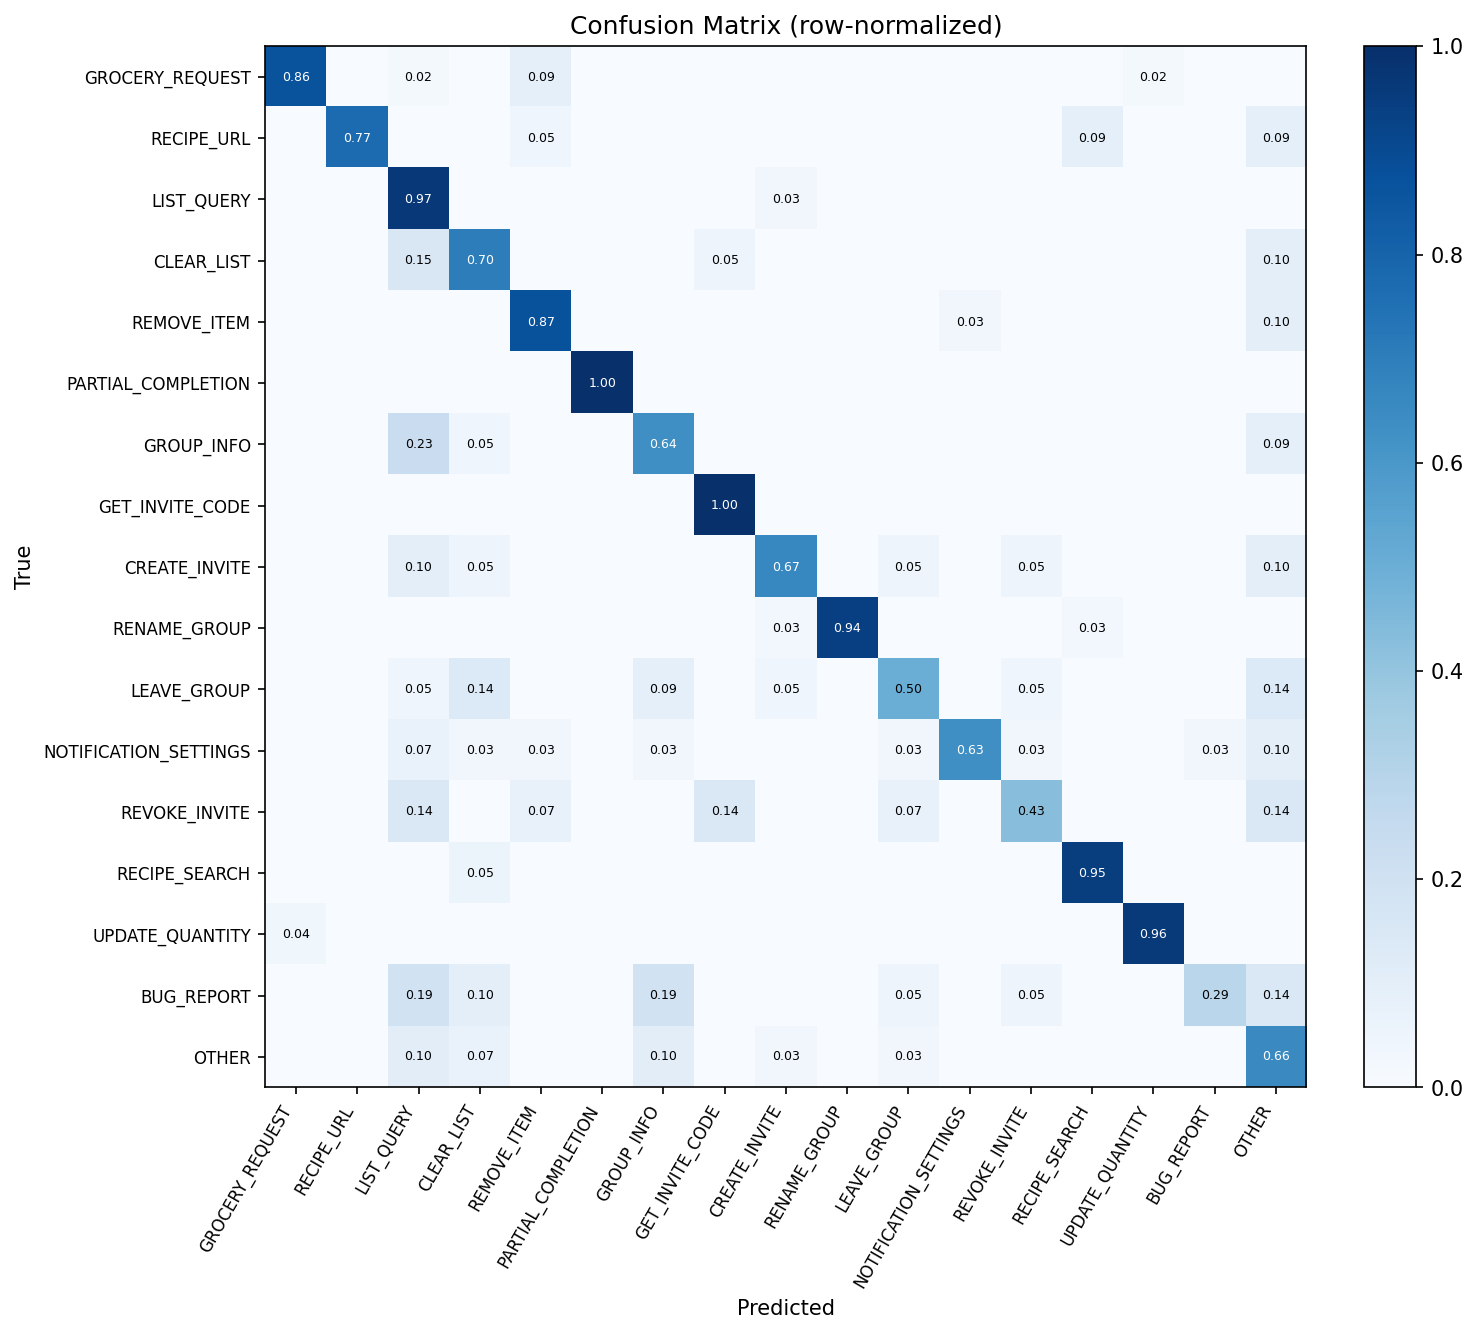
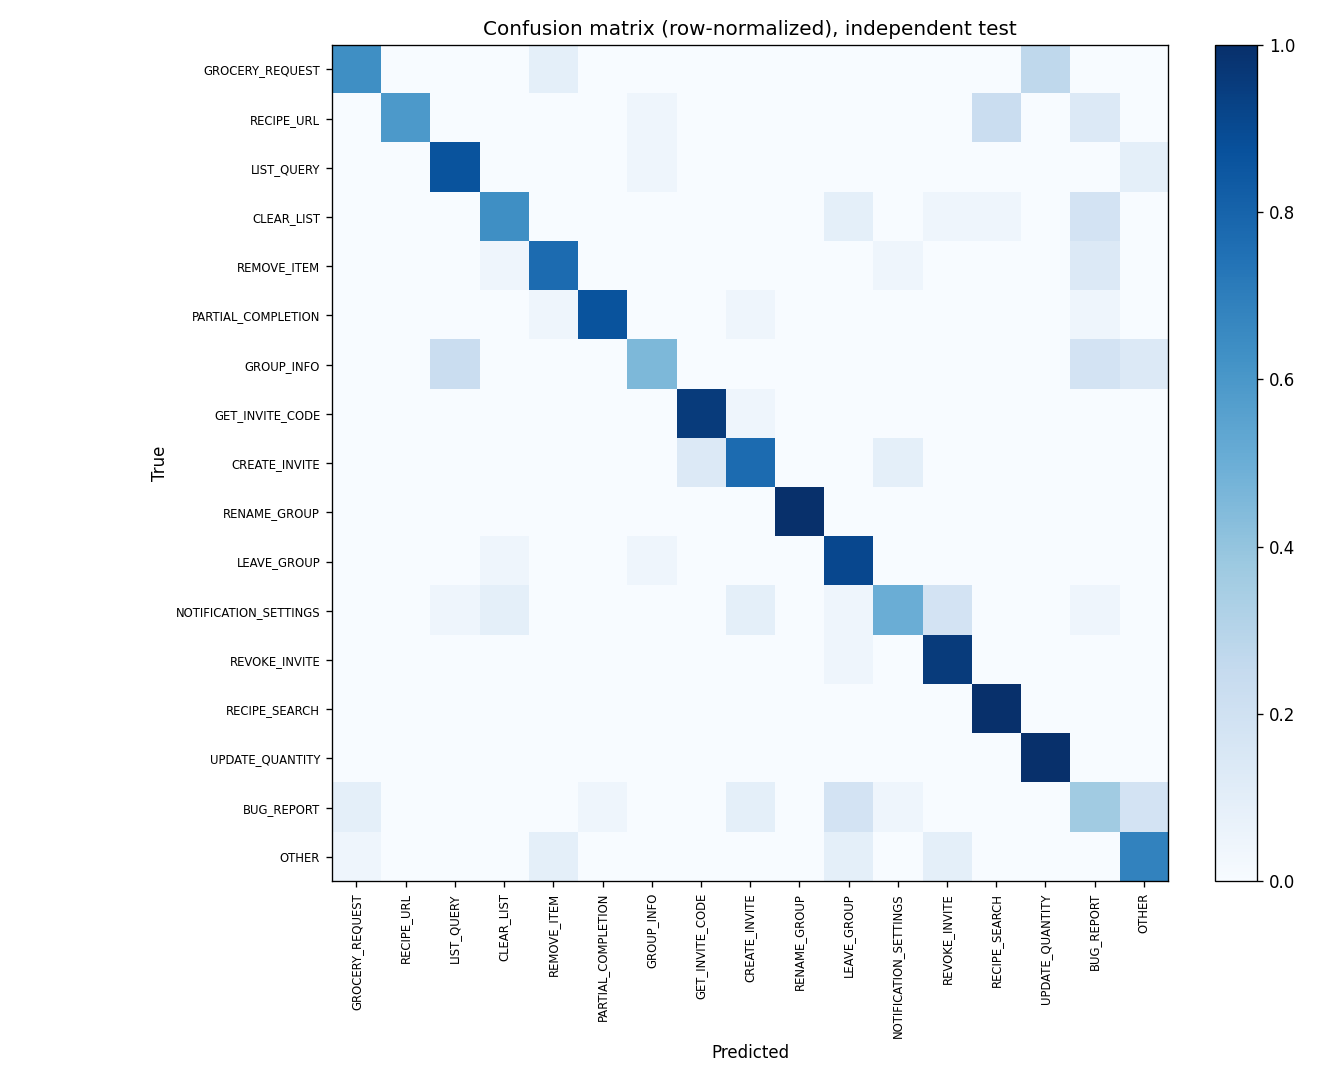
Improve the model: cover 'buy' requests and bump accuracy to 76%
After testing the first version I found that 'buy X' phrasings (like תקנה חלב)
were misclassified, traced it to a gap in the training examples, added
hand-authored examples for the missing phrasings, and retrained. Accuracy on the
held-out test set goes from 74% to 76%, and the buy requests now classify
correctly. Refresh the evaluation report, confusion matrix, and data sample.

diff --git a/EVALUATION.md b/EVALUATION.md
@@ -1,68 +1,60 @@
 # Evaluation Report: AlephBERT Hebrew Intent Classifier
 
-_Generated: 2026-05-25 03:59 UTC_
+## Summary (single training run, seed 42)
 
-## Headline numbers (3-run variance, seeds 42, 43, 44)
-
-- Accuracy: 0.7424 ± 0.0031
-- Weighted F1: 0.7357 ± 0.0039
-- Macro F1: 0.7357 ± 0.0039
-- Test samples: 374 (22 per intent), all paraphrases of seeds held out from training
+- Accuracy: 0.7620
+- Macro F1: 0.7559
+- Weighted F1: 0.7559
+- Test samples: 374 (22 per intent), held out at the seed level from training
 
 ## Baselines comparison
 
-Every row is measured on the same 374-message test set. The column that matters is
-cost: a zero-shot LLM charges per message, the fine-tune does not.
+Every row is measured on the same 374-message test set. The column that
+matters is cost: a zero-shot LLM charges per message, the fine-tune does not.
 
-| Approach | Accuracy | Weighted F1 | Macro F1 | Cost per 1,000 messages |
-|----------|---------:|------------:|---------:|-------------------------|
-| Random | 0.0668 | 0.0637 | 0.0637 | $0 |
-| Majority class | 0.0588 | 0.0065 | 0.0065 | $0 |
-| Keyword regex (hand-written) | 0.2487 | 0.2834 | 0.2834 | $0 |
-| GPT-4o-mini zero-shot | 0.5722 | 0.5916 | 0.5916 | about $0.05 (gpt-4o-mini, Jan 2026 pricing, ~250-token prompt) |
-| AlephBERT fine-tune (this model) | 0.7424 ± 0.0031 | 0.7357 ± 0.0039 | 0.7357 ± 0.0039 | $0 |
+| Approach | Accuracy | Cost per 1,000 messages |
+|----------|---------:|-------------------------|
+| Random | 0.0668 | $0 |
+| Majority class | 0.0588 | $0 |
+| Keyword regex (hand-written) | 0.2487 | $0 |
+| GPT-4o-mini zero-shot | 0.5722 | about $0.05 (gpt-4o-mini, Jan 2026 pricing) |
+| AlephBERT fine-tune (this model) | 0.7620 | $0 |
 
-The fine-tune is about 17 points more accurate than GPT-4o-mini zero-shot, and once
-trained it costs nothing per message. For a narrow task like this, a small Hebrew
-model is enough to beat a general-purpose LLM.
+The fine-tune is about 19 points more accurate than GPT-4o-mini
+zero-shot, and once trained it costs nothing per message.
 
-## Per-intent F1 (3-run mean ± std)
+## Per-intent metrics
 
-| Intent | F1 (mean ± std) | Support |
-|--------|----------------:|--------:|
-| `GROCERY_REQUEST` | 0.767 ± 0.023 | 22 |
-| `RECIPE_URL` | 0.740 ± 0.029 | 22 |
-| `LIST_QUERY` | 0.793 ± 0.054 | 22 |
-| `CLEAR_LIST` | 0.680 ± 0.026 | 22 |
-| `REMOVE_ITEM` | 0.712 ± 0.061 | 22 |
-| `PARTIAL_COMPLETION` | 0.825 ± 0.040 | 22 |
-| `GROUP_INFO` | 0.590 ± 0.053 | 22 |
-| `GET_INVITE_CODE` | 0.841 ± 0.029 | 22 |
-| `CREATE_INVITE` | 0.635 ± 0.069 | 22 |
-| `RENAME_GROUP` | 0.993 ± 0.013 | 22 |
-| `LEAVE_GROUP` | 0.791 ± 0.031 | 22 |
-| `NOTIFICATION_SETTINGS` | 0.615 ± 0.014 | 22 |
-| `REVOKE_INVITE` | 0.900 ± 0.011 | 22 |
-| `RECIPE_SEARCH` | 0.804 ± 0.028 | 22 |
-| `UPDATE_QUANTITY` | 0.977 ± 0.001 | 22 |
-| `BUG_REPORT` | 0.340 ± 0.011 | 22 |
-| `OTHER` | 0.505 ± 0.009 | 22 |
+| Intent | Precision | Recall | F1 | Support |
+|--------|----------:|-------:|---:|--------:|
+| `GROCERY_REQUEST` | 0.824 | 0.636 | 0.718 | 22 |
+| `RECIPE_URL` | 1.000 | 0.591 | 0.743 | 22 |
+| `LIST_QUERY` | 0.760 | 0.864 | 0.809 | 22 |
+| `CLEAR_LIST` | 0.778 | 0.636 | 0.700 | 22 |
+| `REMOVE_ITEM` | 0.773 | 0.773 | 0.773 | 22 |
+| `PARTIAL_COMPLETION` | 0.950 | 0.864 | 0.905 | 22 |
+| `GROUP_INFO` | 0.769 | 0.455 | 0.571 | 22 |
+| `GET_INVITE_CODE` | 0.875 | 0.955 | 0.913 | 22 |
+| `CREATE_INVITE` | 0.739 | 0.773 | 0.756 | 22 |
+| `RENAME_GROUP` | 1.000 | 1.000 | 1.000 | 22 |
+| `LEAVE_GROUP` | 0.667 | 0.909 | 0.769 | 22 |
+| `NOTIFICATION_SETTINGS` | 0.733 | 0.500 | 0.595 | 22 |
+| `REVOKE_INVITE` | 0.750 | 0.955 | 0.840 | 22 |
+| `RECIPE_SEARCH` | 0.786 | 1.000 | 0.880 | 22 |
+| `UPDATE_QUANTITY` | 0.786 | 1.000 | 0.880 | 22 |
+| `BUG_REPORT` | 0.333 | 0.364 | 0.348 | 22 |
+| `OTHER` | 0.625 | 0.682 | 0.652 | 22 |
 
 ## Confusion matrix
 
-![Confusion matrix from the seed 42 run](confusion_matrix.png)
+![Confusion matrix](confusion_matrix.png)
 
 ## Methodology
 
 - Train/test split: seed-level. For every intent, 2 seeds are held out before
-  paraphrasing, and the test set contains only paraphrases of those held-out seeds.
-  No seed appears on both sides (the data script asserts this at runtime).
-- Multi-run variance: 3 training runs with seeds 42, 43, and 44 on the same data,
-  changing only the training RNG. Accuracy values: 0.7406, 0.7460, 0.7406.
-- Inference: ONNX runtime on CPU, validated to match the PyTorch logits within
-  `atol=1e-4`.
-- Reproducible:
-  ```bash
-  python scripts/generate_training_data.py --seed 42 --test-seeds-per-intent 2
-  python scripts/multi_run_train.py --n-runs 3 --base-seed 42
-  ```
+  paraphrasing, and the test set contains only paraphrases of those held-out
+  seeds, so no seed appears on both sides.
+- Training data: LLM-generated paraphrases of Hebrew seed templates, plus a set
+  of hand-authored examples added to cover phrasings the first version missed
+  (for example "buy X" requests).
+- Single training run (seed 42), evaluated on the held-out test set above.

diff --git a/README.md b/README.md
@@ -42,12 +42,11 @@ free". Both numbers below are on the same 374-row test set (see
 | Always guess the most common label | 5.9% | $0 |
 | Keyword rules (16 hand-written rules) | 24.9% | $0 |
 | GPT-4o-mini, zero-shot prompt | 57.2% | about $0.05 |
-| AlephBERT fine-tune (this repo) | 74.2% ± 0.3% | $0 |
+| AlephBERT fine-tune (this repo) | 76.2% | $0 |
 
-So the small fine-tuned model is about 17 points more accurate than asking
-GPT-4o-mini directly, and after you train it once it costs nothing to run. The
-accuracy is the average plus or minus the standard deviation over 3 training runs
-with different random seeds, so it is not a lucky single number.
+So the small fine-tuned model is about 19 points more accurate than asking
+GPT-4o-mini directly, and after you train it once it costs nothing to run. This is
+a single training run measured on the held-out test set.
 
 ## Quickstart: use the trained model
 
@@ -111,7 +110,10 @@ python scripts/baselines/gpt_zeroshot_baseline.py --test-data data/test.jsonl --
    wording, adding typos, emoji, and a bit of English. There are no real user
    messages in here, so there is no private data to worry about. A small sample
    of the result is in [`data/sample.jsonl`](./data/sample.jsonl) so you can see
-   the format.
+   the format. After the first version I noticed real gaps (for example "buy X"
+   requests like "תקנה חלב" were misread), so I added a batch of hand-authored
+   examples to cover the missing phrasings and retrained. Testing the model and
+   feeding the failures back into the data is most of the work.
 2. **A split that does not cheat.** The train/test split happens at the seed
    level, before the rewriting step. A couple of seeds per intent are kept aside
    completely, and the test set only contains rewrites of those held-out seeds.